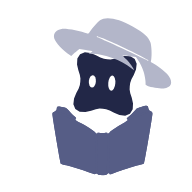
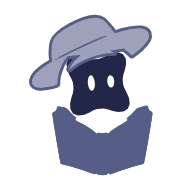
Test version: assistant's hat gets an outline so it stands out from the sky
Claude-Session: https://claude.ai/code/session_01SnNWWGU4BvZ2AAGobJocPY

Changed region(s): [[0.125, 0.0625, 0.9062, 0.625]]

diff --git a/beta/index.html b/beta/index.html
@@ -3715,9 +3715,10 @@ function aiHebrewDate(d){const h=hd(d);return `${h.d} ${h.n[0]} ${h.y}`}
    adm:1 = admin-only → counts as small in the version but is never announced.
    The shown version (bottom of ⋯, popups) is worked out from these sizes by ccVerStr(). A batch shows the biggest kind it contains.
    Whole new feature -> may also set `tour:'<id>'` (an id in SETS inside ccTourStart) so "Show me" runs a live tour. */
-const CC_VER=222;
+const CC_VER=223;
 const CC_LOG=[
-  {v:180,new:['The stats rings now use the new wavy style too.']},{v:181,new:['Clearer stats screen: rings and buttons easy to see in the evening, round day dots.']},{v:182,new:['Easier to read around sunset, clearer selected buttons, neater month boxes.']},{v:183,new:['Matching shapes: reminder cards, ticked shiurim and the streak days.']},{v:184,new:['Material 3 shapes for the calendar markers, the streak days and the stats.']},{v:185,new:['Each shiur has its own shape in the stats.']},{v:186,mid:1,new:['Month view: tap a day to see what’s on it right under the week; tap it again to open the day.']},{v:187,new:['Smoother and lighter on the battery: faster day changes, quieter when idle.']},{v:188,mid:1,new:['New motion everywhere: springy, physical animations — windows grow from where you tap and their content flows in.']},{v:189,mid:1,new:['Real Material 3 motion: windows grow out of the button you tap and shrink back into it, swipes between days and months follow your finger and keep its speed, selected buttons slide to their new place.']},{v:190,new:['Faster, smoother animations.']},{v:191,new:['No more blue flash when you tap something.']},{v:192,mid:1,new:['Shapes change into other shapes: ticking a box turns its square into a scalloped cookie, the selected day becomes a new shape, switches and buttons morph when you press them.']},{v:193,new:['Fixed: tapping a shiur box ticks it again.']},{v:194,mid:1,new:['The siddur has a little compass arrow at the top that points toward Yerushalayim. Tap it to see the direction.']},{v:195,new:['The siddur arrow is now a soft triangle that points the way to daven (map direction or shortest path — tap it to choose).']},{v:196,new:['The siddur direction arrow has its new shape.']},{v:197,new:['The drop arrow and its flying bubbles are gone; the cards now simply slide up as you scroll.']},{v:198,new:['Windows open and close a little slower, so the motion is easier to enjoy.']},{v:199,new:['The month view no longer looks stretched: shorter day boxes, and windows keep their shape while they open.']},{v:200,mid:1,new:['In the siddur, swipe sideways to move between Shacharis, Mincha, Maariv, Bentching and Shema; swipe in from the left edge to close it.']},{v:201,new:['Month view: the shapes behind today and the selected day are no longer stretched sideways.']},{v:202,big:1,new:['Material 3 everywhere, fixed and finished: every window grows from its button and shrinks back into it (also the full-screen ones), text stays crisp while windows move, sliding highlights in the siddur tabs, the week strip follows your finger, predictive back, moving wavy rings, a new loader, pressed buttons make room for each other, and Material 3’s Roboto Flex font.']},{v:203,new:['Cleaner look: one font for all English, solid sheets, crisper scrolling, clearer selected day, tidier settings and shiurim, calmer dusk.']},{v:204,new:['Fixes from a full check: stats now count today properly, the phone’s Back button closes the How & when guide, clearer choices at night, and small tidy-ups in the siddur and assistant.']},{v:205,new:['The stats page is much lighter and smoother (it could freeze or close the app).']},{v:206,new:['Today’s streak shape now spins into a new shape and fills up a quarter for every shiur you check off.']},{v:207,new:['Today’s streak shape now really spins (a full turn) as it changes shape.']},{v:208,new:['The assistant button is now a silhouette in the app’s colour, with a shape-shifting head that spins as you scroll.']},{v:209,new:['The assistant button has small eyes again, sized for his new head.']},{v:210,new:['The assistant has the new look everywhere he appears — every window and the notifications.']},{v:211,new:['His head stays still while he’s asleep.']},{v:222,new:['Fixed the app slowing down and closing while scrolling: hidden windows no longer use the phone\'s graphics memory.']},
+  {v:180,new:['The stats rings now use the new wavy style too.']},{v:181,new:['Clearer stats screen: rings and buttons easy to see in the evening, round day dots.']},{v:182,new:['Easier to read around sunset, clearer selected buttons, neater month boxes.']},{v:183,new:['Matching shapes: reminder cards, ticked shiurim and the streak days.']},{v:184,new:['Material 3 shapes for the calendar markers, the streak days and the stats.']},{v:185,new:['Each shiur has its own shape in the stats.']},{v:186,mid:1,new:['Month view: tap a day to see what’s on it right under the week; tap it again to open the day.']},{v:187,new:['Smoother and lighter on the battery: faster day changes, quieter when idle.']},{v:188,mid:1,new:['New motion everywhere: springy, physical animations — windows grow from where you tap and their content flows in.']},{v:189,mid:1,new:['Real Material 3 motion: windows grow out of the button you tap and shrink back into it, swipes between days and months follow your finger and keep its speed, selected buttons slide to their new place.']},{v:190,new:['Faster, smoother animations.']},{v:191,new:['No more blue flash when you tap something.']},{v:192,mid:1,new:['Shapes change into other shapes: ticking a box turns its square into a scalloped cookie, the selected day becomes a new shape, switches and buttons morph when you press them.']},{v:193,new:['Fixed: tapping a shiur box ticks it again.']},{v:194,mid:1,new:['The siddur has a little compass arrow at the top that points toward Yerushalayim. Tap it to see the direction.']},{v:195,new:['The siddur arrow is now a soft triangle that points the way to daven (map direction or shortest path — tap it to choose).']},{v:196,new:['The siddur direction arrow has its new shape.']},{v:197,new:['The drop arrow and its flying bubbles are gone; the cards now simply slide up as you scroll.']},{v:198,new:['Windows open and close a little slower, so the motion is easier to enjoy.']},{v:199,new:['The month view no longer looks stretched: shorter day boxes, and windows keep their shape while they open.']},{v:200,mid:1,new:['In the siddur, swipe sideways to move between Shacharis, Mincha, Maariv, Bentching and Shema; swipe in from the left edge to close it.']},{v:201,new:['Month view: the shapes behind today and the selected day are no longer stretched sideways.']},{v:202,big:1,new:['Material 3 everywhere, fixed and finished: every window grows from its button and shrinks back into it (also the full-screen ones), text stays crisp while windows move, sliding highlights in the siddur tabs, the week strip follows your finger, predictive back, moving wavy rings, a new loader, pressed buttons make room for each other, and Material 3’s Roboto Flex font.']},{v:203,new:['Cleaner look: one font for all English, solid sheets, crisper scrolling, clearer selected day, tidier settings and shiurim, calmer dusk.']},{v:204,new:['Fixes from a full check: stats now count today properly, the phone’s Back button closes the How & when guide, clearer choices at night, and small tidy-ups in the siddur and assistant.']},{v:205,new:['The stats page is much lighter and smoother (it could freeze or close the app).']},{v:206,new:['Today’s streak shape now spins into a new shape and fills up a quarter for every shiur you check off.']},{v:207,new:['Today’s streak shape now really spins (a full turn) as it changes shape.']},{v:208,new:['The assistant button is now a silhouette in the app’s colour, with a shape-shifting head that spins as you scroll.']},{v:209,new:['The assistant button has small eyes again, sized for his new head.']},{v:210,new:['The assistant has the new look everywhere he appears — every window and the notifications.']},{v:211,new:['His head stays still while he’s asleep.']},{v:223,new:['The assistant\'s hat has a soft outline so it stands out from the sky.']},
+{v:222,new:['Fixed the app slowing down and closing while scrolling: hidden windows no longer use the phone\'s graphics memory.']},
 {v:221,new:['The assistant is back in the app\'s own colour, with a clearer light hat and a darker head.']},
 {v:220,new:['The assistant\'s colours: a light-blue hat, a purple-ish book and a dark-blue head.']},
 {v:219,new:['The assistant now has three shades: a light hat, his book in the app colour, and the darkest head.']},
@@ -5910,6 +5911,9 @@ body.wm-pb.sd-hide>*{visibility:visible!important}
 :root:not(.tt-off-fabsil):not(.tt-off-m3) .cch:not(.csil){--chT:color-mix(in srgb,var(--m3p) 45%,#fff);--chB:var(--m3p);--chH:color-mix(in srgb,var(--m3p) 24%,#121633)}/* v221 (owner: "the last one was better but make the difference a little clearer"): back to the theme's own colour in three shades, further apart */
 :root:not(.tt-off-fabsil):not(.tt-off-m3):is([data-night="1"],[data-theme="dark"]) .cch:not(.csil),:root:not(.tt-off-fabsil):not(.tt-off-m3) #shabGate .cch{--chH:color-mix(in srgb,var(--m3p) 40%,#121633)}
 :root:not(.tt-off-fabsil):not(.tt-off-m3) .cch:not(.csil) :is(.c-hat,.c-hatb){--ink:var(--chT);--fill:var(--chT)}
+/* v223 (owner: "make the hat more recognizable, it's too similar to the background"): a bit more colour and a darker outline (the book's tone), drawn behind the fill */
+:root:not(.tt-off-fabsil):not(.tt-off-m3) .cch:not(.csil) .c-hatb .k{stroke:var(--chB)!important;stroke-width:13px!important;paint-order:stroke;stroke-linejoin:round}
+:root:not(.tt-off-fabsil):not(.tt-off-m3) .cch:not(.csil){--chT:color-mix(in srgb,var(--m3p) 58%,#fff)}
 :root:not(.tt-off-fabsil):not(.tt-off-m3) .cch:not(.csil) .c-book{--ink:var(--chB);--fill:var(--chB)}
 :root:not(.tt-off-fabsil):not(.tt-off-m3):is([data-night="1"],[data-theme="dark"]) .cch:not(.csil),:root:not(.tt-off-fabsil):not(.tt-off-m3) #shabGate .cch{--m3op:#eef0ff}/* the darker head needs light eyes at night */
 :root:not(.tt-off-fabsil):not(.tt-off-m3) .cch:not(.csil) .c-fh,:root:not(.tt-off-fabsil):not(.tt-off-m3) #fabCh .c-fh{fill:var(--chH)}

diff --git a/CLAUDE.md b/CLAUDE.md
@@ -69,6 +69,7 @@ Do not add files named `index (1).html` or similar: only `index.html` is served.
 - **v220 (owner: "hat light blue, body almost purple-ish, head dark blue"):** the v219 tones are now fixed hues: day `--chT` #9dbbec / `--chB` #7a6cbc / `--chH` #26357a; night, dusk and the Shabbos screen #bcd2fa / #a597e2 / #4256ad (light eyes as before). Notification pictures re-rendered (scratchpad `stp/notif.js` from `stp/nt/`).
 - **v221 (owner: "never mind, the last one was better but make the difference a little clearer"):** v220's fixed hues are gone; back to the theme colour in three shades, further apart: hat `--m3p` 45% + white, book `--m3p`, head `--m3p` 24% + #121633 by day (40% at night/dusk/Shabbos screen so it doesn't vanish into the dark sky). Notification pictures re-rendered.
 - **v222 (owner: "the app and scrolling is crashing out again — fix it without getting rid of animations"):** measured GPU layers with scratchpad `perf3/lay.js` (layer count + drawn area in CSS Mpx, 4× throttled scroll; env `FL` flags) and `perf3/lay2.js`/`lay3.js` (biggest layers with their element, path for spans and compositing reasons; env `SY` scroll). Found: (1) closed windows kept their blurred-glass layers alive while invisible (opacity 0 / moved off): `#loBox`, `#aiBackdrop`, `#sh`, `#ms`, `#bd` (+ the cc-wm sheets) — ~2.7 Mpx of `backdrop-filter` layers re-blurred while scrolling. A script at the end of `<body>` sets `visibility:hidden` on each one 700 ms after it closes (open tests: `.on`, `body.op`/`om`, `tour-on` for `#sh`) and clears it in the same frame it opens (MutationObserver on body/html/each window's class), so the open/close animations are unchanged. (2) the turning ring wave made the ring's "2/4" label a 412×1128 squashing layer → `.ring/.sring/.qdot i` get `contain:paint; isolation:isolate` and `will-change:transform` (with the waves on), so their parts draw inside one small layer. Result: drawn layer area 9.2 → 6.5 Mpx, 4× throttled scroll long tasks 7.5 → 5.4 s, frames 154 → 164. Rule: anything blurred must not stay laid out when closed; give a small element that has an endless compositor animation its own layer.
+- **v223 (owner: "make the assistant's hat more recognizable, it's too similar to the background colour"):** hat `--chT` = `--m3p` 58% + white (a little more colour) and the hat path `.c-hatb .k` gets a 13 px stroke in `--chB` (the book's tone) drawn behind the fill (`paint-order:stroke`), so it reads against the pale day sky; at night the outline is pale too. Notification pictures re-rendered.
 - **v191 (owner: "when I click on something it turns blue, and only then it opens"):** top of `cc-m3x`: `-webkit-tap-highlight-color:transparent` on every element (it was only set on ~10), `user-select:none` + `-webkit-touch-callout:none` on tappable things (buttons, links, chips, cards, day cells, dock…; text in the reader/inputs stays selectable), and no focus outline after a tap (`:focus:not(:focus-visible)`; keyboard focus still shows).
 - **Per-profile storage:** `AK(key)`, `ST(key,default)`. Local profiles and a login gate exist (`cc_local_profiles_v1`).
 - **Accounts saved online (owner, v89; v91: Create account asks for the password twice, `#accountPass2`, shown only in create mode: "if someone logs in on a different phone or uninstalls and reinstalls, it still has all his stuff").** Push server `/acct/new|login|sync` (origin-locked; KV `acct:<user>` = `{s salt, h PBKDF2-SHA256 10k, tk: last 12 session tokens, d:{key:[value,time]}, r revision, f/ft failed sign-ins → 8 fails = 10 min lock}`; user `test` refused). The sign-in script (`window.ccAcct`) sends the typed password only to the server (the phone still keeps its old FNV `passwordHash` for offline sign-in) and keeps a token in `cc_sync_<user>` = `{t, r, h:{key: FNV hash last synced}, at}`. Synced = every `cc_profile_<user>_*` key except `cc_sd_pos`/`cc_test_*`, plus `@seen` (`cc_seen_ver_<u>`) and `@tour` (`cc_local_tour_done_<u>`). `sync(u)`: changed keys go up as `[value, time, base hash]`; the server applies a change only if its copy still matches the base, otherwise the phone merges (`merge`: JSON objects unioned one level deep, server wins a clash — so shiurim ticked on two phones are kept) and sends again. Create account = registers on the server (409 → "taken"; no internet → phone-only account, backed up later). Log in with a name unknown on this phone → `/acct/login` → the server copy is written to the phone (`applyAll`). Existing signed-in users with no token get a one-time-per-opening card `#bkCard` ("Keep your account safe": type the password; if the name is someone else's on the server, pick a new one → `ccAcct.rename` moves the phone's data). Runner (block after `acctOut` in the main script): sync 1.5 s after opening, on leaving the app, on return (after 60 s), every 2 min while open; reads are cheap, a write only when something changed (KV free plan: 1000 writes/day). New data from another phone → quiet reload (while hidden, or within 20 s of opening if untouched; else on leaving). ⋯ account card line `#acctBk` ("☁ Saved to your account · 3 min ago" / "Not saved… Tap to fix"). Test: scratchpad `acct/e2e.js` (routes the app's requests into `server/worker.js` with a fake KV: create, second phone, both phones changing, old user card, name taken → rename), `acct/wt.mjs`. **Needs the worker deployed** (owner pastes it into Cloudflare).
